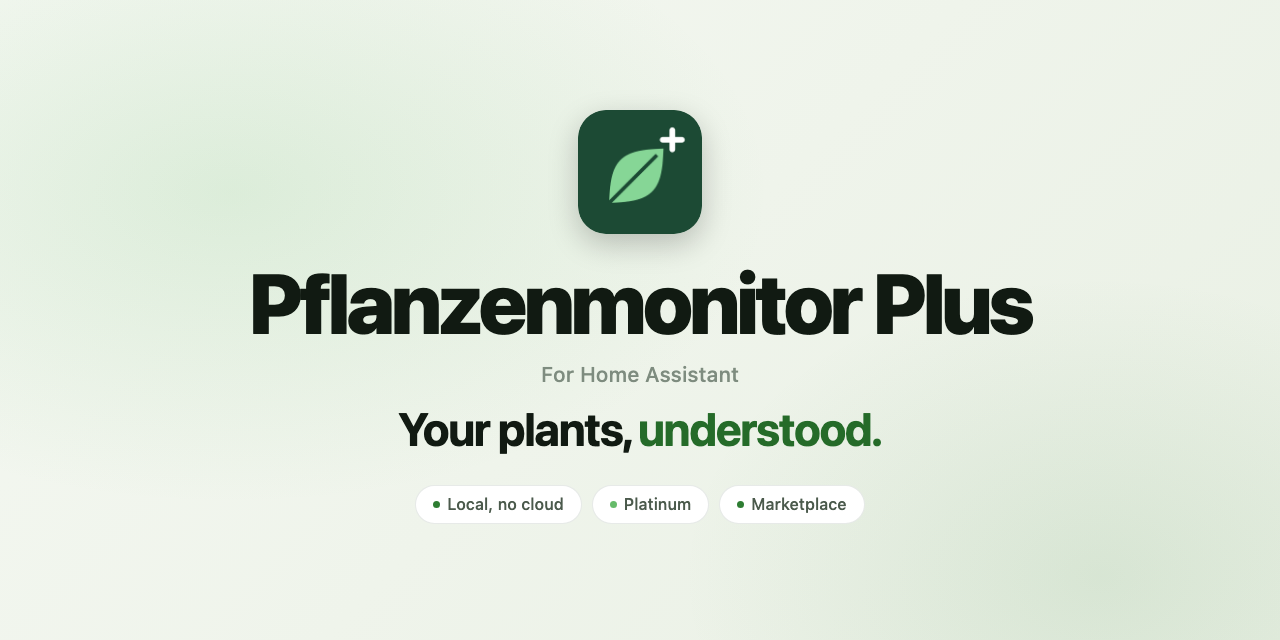
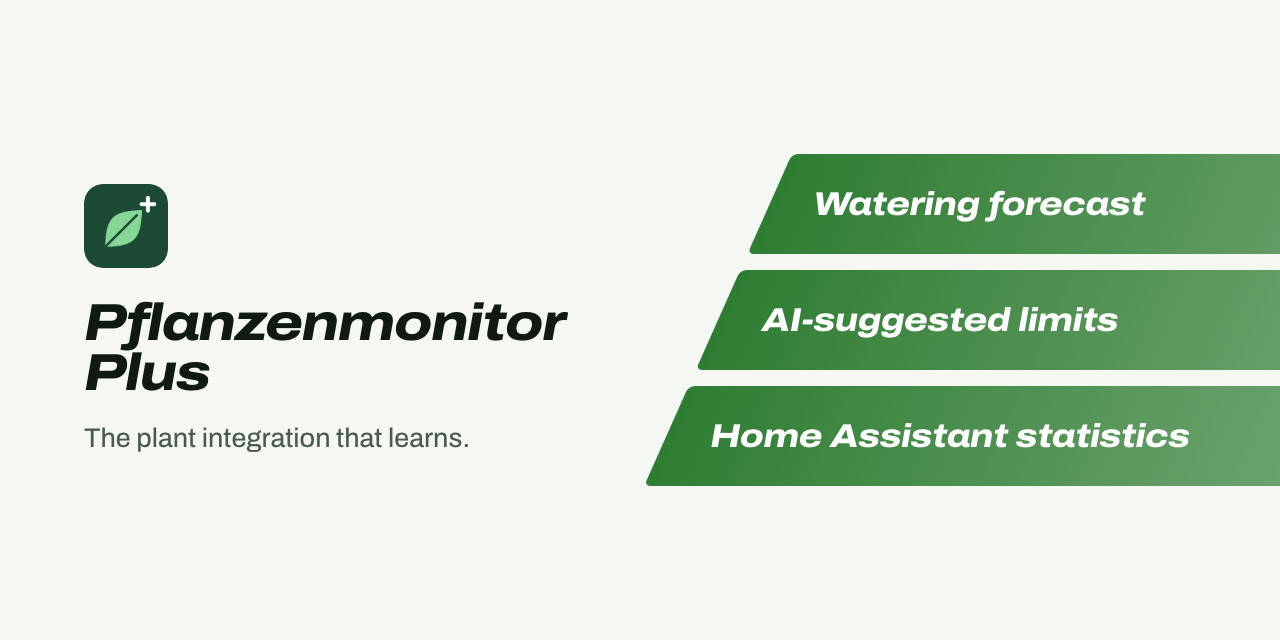
README and project page in the v2 design
Title banner with the lanes, Install and Set up as one Get started, shared
footer. The page loads theme v2 (Archivo from sh1ft-w.github.io), hero left
with the three key facts on the lanes.

Claude-Session: https://claude.ai/code/session_01TLmTtZLAvnS1BJ3w9tzxXq

diff --git a/docs/index.html b/docs/index.html
@@ -13,21 +13,18 @@
 <meta property="og:description" content="Status, limits and a learned watering forecast for every plant, with AI-suggested limits you approve. Local, no cloud.">
 <meta property="og:image" content="https://sh1ft-w.github.io/pflanzenmonitor-plus/images/readme-title-social.png">
 <link rel="icon" href="logo.png">
-<link rel="preconnect" href="https://fonts.googleapis.com">
-<link rel="preconnect" href="https://fonts.gstatic.com" crossorigin>
-<link href="https://fonts.googleapis.com/css2?family=Archivo:wght@600;700;800;900&family=Inter:wght@400;500;600&family=JetBrains+Mono:wght@400;500&display=swap" rel="stylesheet">
-<!-- Shared SH1FT-W design (tokens, glass navigation, light/dark, DE/EN, reveal) -->
-<link rel="stylesheet" href="https://sh1ft-w.github.io/theme/v1/theme.css">
-<script src="https://sh1ft-w.github.io/theme/v1/theme.js"></script>
+<!-- Shared SH1FT-W design, version 2 (tokens, Archivo, navigation, light/dark, DE/EN, the lanes) -->
+<link rel="stylesheet" href="https://sh1ft-w.github.io/theme/v2/theme.css">
+<script src="https://sh1ft-w.github.io/theme/v2/theme.js"></script>
 <style>
 /* Plant palette: leaf green as accent, fresh green as second colour, soft daylight by day, a dark greenhouse by night */
 :root {
   --accent: #2E7D32; --accent-ink: #256B29; --on-accent: #ffffff;
-  --sea: #2E7D32; --sea-tint: rgba(46,125,50,0.10); --sea-glow: rgba(46,125,50,0.30); --aqua: #66BB6A;
+  --sea: #2E7D32; --sea-tint: rgba(46,125,50,0.10); --aqua: #66BB6A;
   --soil: #8D6E63; --water: #2F80ED; --limit: #E0A100;
-  --font: "Inter", -apple-system, BlinkMacSystemFont, system-ui, sans-serif;
-  --display: "Archivo", "Inter", -apple-system, BlinkMacSystemFont, system-ui, sans-serif;
-  --mono: "JetBrains Mono", ui-monospace, "SF Mono", Menlo, monospace;
+  --font: "Archivo", -apple-system, BlinkMacSystemFont, system-ui, sans-serif;
+  --display: "Archivo", -apple-system, BlinkMacSystemFont, system-ui, sans-serif;
+  --mono: ui-monospace, "SF Mono", Menlo, monospace;
   --bg: #F5F8F2; --bg-2: #E9F0E4; --card: #FFFFFF; --card-2: #F2F6EF;
   --ink: #111A12; --ink-2: #4B5A4C; --ink-3: rgba(17,34,18,0.52);
   --line: rgba(20,50,25,0.11); --chip: rgba(20,60,25,0.06);
@@ -38,7 +35,7 @@
 }
 @media (prefers-color-scheme: dark) { :root:not([data-theme="light"]) {
   --accent: #6FCF7F; --accent-ink: #8EDB9A; --on-accent: #06180A;
-  --sea: #6FCF7F; --sea-tint: rgba(111,207,127,0.14); --sea-glow: rgba(111,207,127,0.28); --water: #6FA8FF;
+  --sea: #6FCF7F; --sea-tint: rgba(111,207,127,0.14); --water: #6FA8FF;
   --bg: #080D09; --bg-2: #0D150F; --card: #111A13; --card-2: #17231A;
   --ink: #ECF4ED; --ink-2: rgba(216,232,218,0.84); --ink-3: rgba(216,232,218,0.52);
   --line: rgba(236,244,237,0.1); --chip: rgba(236,244,237,0.07);
@@ -47,7 +44,7 @@
 } }
 :root[data-theme="dark"] {
   --accent: #6FCF7F; --accent-ink: #8EDB9A; --on-accent: #06180A;
-  --sea: #6FCF7F; --sea-tint: rgba(111,207,127,0.14); --sea-glow: rgba(111,207,127,0.28); --water: #6FA8FF;
+  --sea: #6FCF7F; --sea-tint: rgba(111,207,127,0.14); --water: #6FA8FF;
   --bg: #080D09; --bg-2: #0D150F; --card: #111A13; --card-2: #17231A;
   --ink: #ECF4ED; --ink-2: rgba(216,232,218,0.84); --ink-3: rgba(216,232,218,0.52);
   --line: rgba(236,244,237,0.1); --chip: rgba(236,244,237,0.07);
@@ -72,7 +69,7 @@ code, .k { font-family: var(--mono); font-variant-numeric: tabular-nums; }
 .btn {
   display: inline-flex; align-items: center; justify-content: center; gap: 8px; height: 48px; padding: 0 24px; border-radius: 999px;
   font-family: inherit; font-size: 15px; font-weight: 600; line-height: 1; background: var(--sea); color: var(--on-accent); border: 0; cursor: pointer;
-  box-shadow: 0 12px 28px -12px var(--sea-glow); transition: transform .2s ease, filter .2s ease;
+  transition: transform .2s ease, filter .2s ease;
 }
 .btn:hover { text-decoration: none; filter: brightness(1.1); transform: translateY(-1px); }
 .btn.ghost { background: var(--card); color: var(--ink); box-shadow: var(--shadow); }
@@ -96,9 +93,6 @@ section.tint { background: var(--bg-2); }
 
 /* Hero */
 .hero { padding: clamp(56px, 9vw, 112px) 0 clamp(64px, 8vw, 104px); text-align: center; overflow: hidden; }
-.hero .glow { position: absolute; inset: -20% -10% auto; height: 90%; pointer-events: none;
-  background: radial-gradient(40% 36% at 30% 30%, rgba(102,187,106,0.20), transparent 70%), radial-gradient(36% 34% at 72% 24%, rgba(46,125,50,0.16), transparent 70%);
-  filter: blur(50px); }
 .hero .wrap { position: relative; }
 .hero .lead { max-width: 660px; margin-left: auto; margin-right: auto; }
 .cta { display: flex; flex-wrap: wrap; gap: 12px; justify-content: center; margin-top: 34px; }
@@ -106,9 +100,6 @@ section.tint { background: var(--bg-2); }
 .pill { display: inline-flex; align-items: center; gap: 6px; padding: 5px 12px; border-radius: 999px; background: var(--card); box-shadow: var(--shadow); font-weight: 600; color: var(--ink-2); font-size: 13px; }
 .pill i { width: 7px; height: 7px; border-radius: 50%; background: var(--aqua); display: inline-block; }
 
-/* Bühne: das README-Titelbild */
-.stage { position: relative; margin: clamp(48px, 7vw, 84px) auto 0; max-width: 1100px; }
-.stage .photo { display: block; width: 100%; height: auto; aspect-ratio: 2 / 1; border-radius: var(--radius-lg); box-shadow: var(--shadow-lg); }
 
 /* Bento: Gerade neu */
 .bento { display: grid; grid-template-columns: repeat(12, 1fr); gap: 16px; }
@@ -237,6 +228,40 @@ footer .fine { flex-basis: 100%; line-height: 1.6; }
   .tbl td { border: 0; padding: 2px 0; }
   .tbl td:first-child { white-space: normal; }
 }
+
+/* ---- theme v2 ---- */
+:root { --lane-a: #2E7D32; --lane-b: #66BB6A; --radius: 20px; --radius-lg: 28px; --max: 1200px; }
+body { font-family: var(--font); }
+h1 { font-size: clamp(44px, 6vw, 84px); line-height: 1; font-weight: 800; font-stretch: 118%; font-style: italic; letter-spacing: -0.025em; }
+h2 { font-size: clamp(30px, 3.8vw, 48px); line-height: 1.08; font-weight: 750; font-stretch: 112%; letter-spacing: -0.02em; }
+h3 { font-stretch: 106%; }
+h1 em, h2 em { color: inherit !important; font-style: inherit; }
+.center { text-align: left; } .center .lead { margin-left: 0; margin-right: 0; }
+.head { max-width: 50em; }
+.eyebrow { text-transform: none; letter-spacing: 0; font-size: 16px; font-weight: 650; margin-bottom: 12px; }
+.eyebrow::before { display: none; }
+.cap { text-align: left; }
+.btn { border-radius: 12px; }
+.btn.ghost { background: var(--chip); box-shadow: none; }
+.pill { box-shadow: none; background: var(--chip); border-radius: 8px; }
+.b, .tile, .panel, .prof, .tbl, .faq details, .flow .lane { box-shadow: none; border: 1px solid var(--line); }
+.b .tag, .tg, .tbl thead th, .tbl .grp td { text-transform: none; letter-spacing: 0; font-size: 13px; }
+.b .tag, .tg { border-radius: 6px; }
+.tile .ico, .shield .ico { border-radius: 10px; }
+.hero { text-align: left; padding: clamp(48px, 7vw, 96px) 0 clamp(56px, 7vw, 96px); overflow: hidden; }
+.hero .wrap { display: grid; grid-template-columns: minmax(0, 1.15fr) minmax(0, 1fr); gap: clamp(24px, 4vw, 64px); align-items: center; }
+.hero .mark { width: 64px; height: 64px; border-radius: 15px; margin-bottom: 26px; }
+.hero .lead { margin-left: 0; max-width: 34em; }
+.hero .cta, .hero .meta { justify-content: flex-start; }
+.hero .s-lanes { margin: 0 calc(-1 * var(--gutter) - 14vw) 0 clamp(40px, 5vw, 72px); }
+.nav-links { font-size: 14px; } .nav-links a { white-space: nowrap; padding: 8px 9px; }
+.s-track b { color: #fff; font: italic 800 clamp(20px, 2.5vw, 34px)/1 var(--font); font-stretch: 116%; letter-spacing: -0.015em; white-space: nowrap; }
+@media (max-width: 900px) { .hero .wrap { grid-template-columns: 1fr; } .hero .s-lanes { margin: 8px calc(-1 * var(--gutter) - 8vw) 0 44px; } }
+/* phone: the long name, light/dark and DE/EN fill the bar; the hero button right below installs */
+@media (max-width: 1340px) { .nav-links a.opt { display: none; } }
+@media (max-width: 940px) { .nav-links { display: none; } .nav > .iconbtn { margin-left: auto; } .nav > .btn, .nav .btn { margin-left: 0; } }
+@media (max-width: 540px) { .nav .brand { font-size: 14px; gap: 6px; white-space: nowrap; } .nav { gap: 6px; } .nav > .btn.small { display: none; } .s-track b { font-size: 18px; } }
+@media (max-width: 760px) { .tbl td:first-child { white-space: normal; } }
 </style>
 </head>
 <body>
@@ -262,25 +287,24 @@ footer .fine { flex-basis: 100%; line-height: 1.6; }
 </div>
 
 <section class="hero" id="top">
-  <div class="glow" aria-hidden="true"></div>
   <div class="wrap">
-    <p class="eyebrow reveal"><span class="en">Plants in Home Assistant</span><span class="de">Pflanzen in Home Assistant</span></p>
-    <h1 class="reveal d1"><span class="en">Your plants,<br><em>understood.</em></span><span class="de">Deine Pflanzen,<br><em>verstanden.</em></span></h1>
-    <p class="lead reveal d2"><span class="en">Pflanzenmonitor Plus watches every plant against its limits, <strong>learns from the soil moisture when it was watered and when it needs water again</strong>, and lets an AI suggest limits for the species, approved by you. It does everything Plant Monitor does, and moving over takes a few steps per plant.</span><span class="de">Pflanzenmonitor Plus prüft jede Pflanze gegen ihre Grenzwerte, <strong>lernt aus der Bodenfeuchte, wann gegossen wurde und wann sie wieder Wasser braucht</strong>, und lässt eine KI Grenzwerte nach Pflanzenart vorschlagen, freigegeben von dir. Es kann alles, was der Plant Monitor kann, und der Umstieg sind wenige Schritte je Pflanze.</span></p>
-    <div class="cta reveal d3">
-      <a class="btn" href="#install"><span class="en">Install from the Marketplace</span><span class="de">Über den Marketplace installieren</span></a>
-      <a class="btn ghost" href="https://github.com/SH1FT-W/pflanzenmonitor-plus#readme"><span class="en">Read the README</span><span class="de">Zur Anleitung</span></a>
+    <div>
+      <img class="mark" src="logo.png" alt="" width="64" height="64">
+      <h1><span class="en">Your plants, understood.</span><span class="de">Deine Pflanzen, verstanden.</span></h1>
+      <p class="lead reveal d2"><span class="en">Pflanzenmonitor Plus watches every plant against its limits, <strong>learns from the soil moisture when it was watered and when it needs water again</strong>, and lets an AI suggest limits for the species, approved by you. It does everything Plant Monitor does, and moving over takes a few steps per plant.</span><span class="de">Pflanzenmonitor Plus prüft jede Pflanze gegen ihre Grenzwerte, <strong>lernt aus der Bodenfeuchte, wann gegossen wurde und wann sie wieder Wasser braucht</strong>, und lässt eine KI Grenzwerte nach Pflanzenart vorschlagen, freigegeben von dir. Es kann alles, was der Plant Monitor kann, und der Umstieg sind wenige Schritte je Pflanze.</span></p>
+      <div class="cta reveal d3">
+        <a class="btn" href="#install"><span class="en">Install from the Marketplace</span><span class="de">Über den Marketplace installieren</span></a>
+        <a class="btn ghost" href="https://github.com/SH1FT-W/pflanzenmonitor-plus#readme"><span class="en">Read the README</span><span class="de">Zur Anleitung</span></a>
+      </div>
+      <p class="meta reveal d3">
+        <span class="pill"><i></i><span id="hl-version">Version 26.11.3</span></span>
+        <span class="en">Home Assistant 2026.9 or newer &middot; English and German &middot; Apache 2.0</span><span class="de">Home Assistant 2026.9 oder neuer &middot; Deutsch und Englisch &middot; Apache 2.0</span>
+      </p>
     </div>
-    <p class="meta reveal d3">
-      <span class="pill"><i></i><span id="hl-version">Version 26.11.3</span></span>
-      <span class="en">Home Assistant 2026.9 or newer &middot; English and German &middot; Apache 2.0</span><span class="de">Home Assistant 2026.9 oder neuer &middot; Deutsch und Englisch &middot; Apache 2.0</span>
-    </p>
-
-    <div class="stage reveal d3">
-      <picture>
-        <source media="(prefers-color-scheme: dark)" srcset="images/readme-title-dark.webp">
-        <img class="photo" src="images/readme-title-light.webp" width="2560" height="1280" alt="Pflanzenmonitor Plus: Your plants, understood.">
-      </picture>
+    <div class="s-lanes" aria-hidden="true">
+      <div class="s-lane"><div class="s-track"><b><span class="en">Watering forecast</span><span class="de">Gieß-Vorhersage</span></b></div></div>
+      <div class="s-lane"><div class="s-track"><b><span class="en">AI-suggested limits</span><span class="de">Grenzwerte von der KI</span></b></div></div>
+      <div class="s-lane"><div class="s-track"><b><span class="en">Home Assistant statistics</span><span class="de">Home-Assistant-Statistik</span></b></div></div>
     </div>
   </div>
 </section>

diff --git a/README.md b/README.md
@@ -2,14 +2,14 @@
 
 <picture>
   <source media="(prefers-color-scheme: dark)" srcset="docs/images/readme-title-dark.webp" />
-  <img src="docs/images/readme-title-light.webp" alt="Pflanzenmonitor Plus: Your plants, understood." />
+  <img src="docs/images/readme-title-light.webp" alt="Pflanzenmonitor Plus: the plant integration that learns. Watering forecast. AI-suggested limits. Home Assistant statistics." />
 </picture>
 
 [![Version](https://img.shields.io/badge/dynamic/json?url=https%3A%2F%2Fraw.githubusercontent.com%2FSH1FT-W%2Fpflanzenmonitor-plus%2Fmain%2Fcustom_components%2Fpflanzenmonitor_plus%2Fmanifest.json&query=%24.version&label=version&style=flat-square&color=2E7D32&labelColor=111111)](https://github.com/SH1FT-W/pflanzenmonitor-plus/releases/latest)
 [![Home Assistant](https://img.shields.io/badge/Home%20Assistant-2026.9%2B-2E7D32?style=flat-square&labelColor=111111&logo=homeassistant&logoColor=white)](https://www.home-assistant.io)
 [![Marketplace](https://img.shields.io/badge/Marketplace-default-2E7D32?style=flat-square&labelColor=111111)](https://hacs.xyz)
 
-<a href="https://sh1ft-w.github.io/pflanzenmonitor-plus"><b>Website</b></a>&emsp;<a href="#installation">Install</a>&emsp;<a href="#set-up">Set up</a>&emsp;<a href="#moving-from-plant-monitor">Moving from Plant Monitor</a>&emsp;<a href="#entities">Entities</a>&emsp;<a href="CHANGELOG.md">Changelog</a>&emsp;<a href="README.de.md">Deutsch</a>
+<a href="https://sh1ft-w.github.io/pflanzenmonitor-plus"><b>Website</b></a>&emsp;<a href="#get-started">Get started</a>&emsp;<a href="#moving-from-plant-monitor">Moving from Plant Monitor</a>&emsp;<a href="#entities">Entities</a>&emsp;<a href="CHANGELOG.md">Changelog</a>&emsp;<a href="README.de.md">Deutsch</a>
 
 </div>
 
@@ -19,7 +19,7 @@ Pflanzenmonitor Plus watches every plant in Home Assistant against its limits, l
 
 It does what [Plant Monitor](https://github.com/Olen/homeassistant-plant) does, but it is a separate integration and takes nothing over from it: moving is [a few steps per plant](#moving-from-plant-monitor). The status entity is `sensor.<name>` instead of `plant.<name>`, and the Flower Card is not supported.
 
-## What you need for what
+## What you get
 
 | Feature | Needs |
 |:--|:--|
@@ -34,12 +34,19 @@ It does what [Plant Monitor](https://github.com/Olen/homeassistant-plant) does, 
 
 **New in 26.11:** watering tasks on a to-do list and an optional care calendar. Plus no longer moves plants from Plant Monitor by itself; there is a guide instead. Every change is in the [changelog](CHANGELOG.md).
 
-<a id="installation"></a>
-## Install
+<a id="get-started"></a><a id="installation"></a><a id="install"></a><a id="set-up"></a>
+## Get started
 
 [![Open in the Marketplace](https://my.home-assistant.io/badges/hacs_repository.svg)](https://my.home-assistant.io/redirect/hacs_repository/?owner=SH1FT-W&repository=pflanzenmonitor-plus&category=integration)
 
-Search for **Pflanzenmonitor Plus** under **Settings > Marketplace** (called HACS before Home Assistant 2026.11), download it and restart Home Assistant.
+You need Home Assistant 2026.9 or newer with the recorder (the default).
+
+1. **Install it.** Search for **Pflanzenmonitor Plus** under **Settings > Marketplace** (called HACS before Home Assistant 2026.11), download it and restart Home Assistant.
+2. **Add the integration.** **Settings > Devices & services > Add integration > Pflanzenmonitor Plus**. There is exactly one entry; the plants are listed under it.
+3. **Choose the options** (all optional, later under **Configure**): the AI for limit suggestions, a weather entity, a to-do list for watering, the care calendar, a rain sensor. Use a rain sensor that measures intensity in mm/h; amount sensors ("rain today") stay above 0 until midnight.
+4. **Add a plant.** **Pflanzenmonitor Plus > Add plant** asks in four steps: name, species (helps the AI), room and picture; the sensors and whether it is outdoors; which readings count as a problem and the wait after watering; with the care calendar on, the care plan. **Three dots > Reconfigure** changes the same later.
+
+Plus only creates entities for sensors that are set. A removed sensor takes its entities along, its limits stay stored. When you rename a sensor, Plus follows.
 
 <details>
 <summary>Install by hand</summary>
@@ -48,17 +55,6 @@ Search for **Pflanzenmonitor Plus** under **Settings > Marketplace** (called HAC
 2. Copy `custom_components/pflanzenmonitor_plus` into `/config/custom_components/` and restart Home Assistant.
 
 </details>
-
-<a id="set-up"></a>
-## Set up
-
-You need Home Assistant 2026.9 or newer with the recorder (the default).
-
-1. **Add the integration.** **Settings > Devices & services > Add integration > Pflanzenmonitor Plus**. There is exactly one entry; the plants are listed under it.
-2. **Choose the options** (all optional, later under **Configure**): the AI for limit suggestions, a weather entity, a to-do list for watering, the care calendar, a rain sensor. Use a rain sensor that measures intensity in mm/h; amount sensors ("rain today") stay above 0 until midnight.
-3. **Add a plant.** **Pflanzenmonitor Plus > Add plant** asks in four steps: name, species (helps the AI), room and picture; the sensors and whether it is outdoors; which readings count as a problem and the wait after watering; with the care calendar on, the care plan. **Three dots > Reconfigure** changes the same later.
-
-Plus only creates entities for sensors that are set. A removed sensor takes its entities along, its limits stay stored. When you rename a sensor, Plus follows.
 
 <a id="moving-from-plant-monitor"></a>
 ## Moving from Plant Monitor
@@ -100,6 +96,7 @@ All on the plant's device. IDs depend on language and room (for example `sensor.
 
 </details>
 
+<a id="examples"></a>
 ## Examples
 
 A notification when a plant has needed attention for 30 minutes:
@@ -232,3 +229,11 @@ Test requirements: `pip install -r requirements_test.txt`. GitHub Actions runs t
 [Apache License 2.0](LICENSE), Copyright 2026 SH1FT-W. See [`NOTICE`](NOTICE) about Plant Monitor.
 
 <sub>Pflanzenmonitor Plus is an independent project. It is compatible with Plant Monitor (Olen/homeassistant-plant) but contains none of its code and is not affiliated with it.</sub>
+
+<br/>
+
+<div align="center">
+<a href="https://sh1ft-w.github.io"><img src="https://sh1ft-w.github.io/readme/footer.png" width="640" alt="All SH1FT-W projects"></a>
+<br/>
+<sub>More open source for Home Assistant and the Mac at <a href="https://sh1ft-w.github.io">sh1ft-w.github.io</a></sub>
+</div>

diff --git a/README.de.md b/README.de.md
@@ -8,7 +8,7 @@
 [![Home Assistant](https://img.shields.io/badge/Home%20Assistant-2026.9%2B-2E7D32?style=flat-square&labelColor=111111&logo=homeassistant&logoColor=white)](https://www.home-assistant.io)
 [![Marketplace](https://img.shields.io/badge/Marketplace-default-2E7D32?style=flat-square&labelColor=111111)](https://hacs.xyz)
 
-<a href="https://sh1ft-w.github.io/pflanzenmonitor-plus"><b>Website</b></a>&emsp;<a href="#installation">Installation</a>&emsp;<a href="#einrichtung">Einrichtung</a>&emsp;<a href="#umzug-aus-dem-plant-monitor">Umzug aus dem Plant Monitor</a>&emsp;<a href="#entitaeten">Entitäten</a>&emsp;<a href="CHANGELOG.md">Changelog (englisch)</a>&emsp;<a href="README.md">English</a>
+<a href="https://sh1ft-w.github.io/pflanzenmonitor-plus"><b>Website</b></a>&emsp;<a href="#loslegen">Loslegen</a>&emsp;<a href="#umzug-aus-dem-plant-monitor">Umzug aus dem Plant Monitor</a>&emsp;<a href="#entitaeten">Entitäten</a>&emsp;<a href="CHANGELOG.md">Changelog (englisch)</a>&emsp;<a href="README.md">English</a>
 
 </div>
 
@@ -18,7 +18,7 @@ Pflanzenmonitor Plus überwacht jede Pflanze in Home Assistant an ihren Grenzwer
 
 Plus kann, was der [Plant Monitor](https://github.com/Olen/homeassistant-plant) kann, ist aber eine eigene Integration und übernimmt nichts daraus: Der Umstieg sind [wenige Schritte je Pflanze](#umzug-aus-dem-plant-monitor). Die Zustands-Entität heißt `sensor.<name>` statt `plant.<name>`, die Flower Card wird nicht unterstützt.
 
-## Was du wofür brauchst
+## Was du bekommst
 
 | Funktion | Braucht |
 |:--|:--|
@@ -33,12 +33,19 @@ Plus kann, was der [Plant Monitor](https://github.com/Olen/homeassistant-plant) 
 
 **Neu in 26.11:** Gieß-Aufgaben auf einer To-do-Liste und ein optionaler Pflegekalender. Plus zieht Pflanzen nicht mehr selbst aus dem Plant Monitor um; dafür gibt es eine Anleitung. Alle Änderungen stehen im [Changelog](CHANGELOG.md) (englisch).
 
-<a id="installation"></a>
-## Installation
+<a id="loslegen"></a><a id="installation"></a><a id="einrichtung"></a>
+## Loslegen
 
 [![Im Marketplace öffnen](https://my.home-assistant.io/badges/hacs_repository.svg)](https://my.home-assistant.io/redirect/hacs_repository/?owner=SH1FT-W&repository=pflanzenmonitor-plus&category=integration)
 
-Unter **Einstellungen > Marketplace** (vor Home Assistant 2026.11 heißt er HACS) nach **Pflanzenmonitor Plus** suchen, herunterladen und Home Assistant neu starten.
+Du brauchst Home Assistant 2026.9 oder neuer mit Recorder (Standard).
+
+1. **Installieren.** Unter **Einstellungen > Marketplace** (vor Home Assistant 2026.11 heißt er HACS) nach **Pflanzenmonitor Plus** suchen, herunterladen und Home Assistant neu starten.
+2. **Integration hinzufügen.** **Einstellungen > Geräte & Dienste > Integration hinzufügen > Pflanzenmonitor Plus**. Es gibt genau einen Eintrag; die Pflanzen hängen darunter.
+3. **Optionen wählen** (alle optional, später unter **Konfigurieren**): die KI für Grenzwert-Vorschläge, eine Wetter-Entität, eine To-do-Liste fürs Gießen, den Pflegekalender, einen Regensensor. Der Regensensor muss die Intensität in mm/h messen; Mengen-Sensoren („Regen heute“) bleiben bis Mitternacht über 0.
+4. **Pflanze hinzufügen.** **Pflanzenmonitor Plus > Pflanze hinzufügen** fragt in vier Schritten: Name, Art (hilft der KI), Raum und Bild; die Sensoren und ob sie draußen steht; welche Messwerte als Problem zählen und die Wartezeit nach dem Gießen; mit Pflegekalender den Pflegeplan. **Drei-Punkte-Menü > Neu konfigurieren** ändert dasselbe später.
+
+Plus legt nur Entitäten zu vorhandenen Sensoren an. Ein abgewählter Sensor nimmt seine Entitäten mit, seine Grenzwerte bleiben gespeichert. Benennst du einen Sensor um, zieht Plus das nach.
 
 <details>
 <summary>Von Hand installieren</summary>
@@ -47,17 +54,6 @@ Unter **Einstellungen > Marketplace** (vor Home Assistant 2026.11 heißt er HACS
 2. Den Ordner `custom_components/pflanzenmonitor_plus` nach `/config/custom_components/` kopieren und Home Assistant neu starten.
 
 </details>
-
-<a id="einrichtung"></a>
-## Einrichtung
-
-Du brauchst Home Assistant 2026.9 oder neuer mit Recorder (Standard).
-
-1. **Integration hinzufügen.** **Einstellungen > Geräte & Dienste > Integration hinzufügen > Pflanzenmonitor Plus**. Es gibt genau einen Eintrag; die Pflanzen hängen darunter.
-2. **Optionen wählen** (alle optional, später unter **Konfigurieren**): die KI für Grenzwert-Vorschläge, eine Wetter-Entität, eine To-do-Liste fürs Gießen, den Pflegekalender, einen Regensensor. Der Regensensor muss die Intensität in mm/h messen; Mengen-Sensoren („Regen heute“) bleiben bis Mitternacht über 0.
-3. **Pflanze hinzufügen.** **Pflanzenmonitor Plus > Pflanze hinzufügen** fragt in vier Schritten: Name, Art (hilft der KI), Raum und Bild; die Sensoren und ob sie draußen steht; welche Messwerte als Problem zählen und die Wartezeit nach dem Gießen; mit Pflegekalender den Pflegeplan. **Drei-Punkte-Menü > Neu konfigurieren** ändert dasselbe später.
-
-Plus legt nur Entitäten zu vorhandenen Sensoren an. Ein abgewählter Sensor nimmt seine Entitäten mit, seine Grenzwerte bleiben gespeichert. Benennst du einen Sensor um, zieht Plus das nach.
 
 <a id="umzug-aus-dem-plant-monitor"></a>
 ## Umzug aus dem Plant Monitor
@@ -99,6 +95,7 @@ Alle auf dem Gerät der Pflanze. Die IDs hängen von Sprache und Raum ab (zum Be
 
 </details>
 
+<a id="beispiele"></a>
 ## Beispiele
 
 Eine Benachrichtigung, wenn eine Pflanze seit 30 Minuten Aufmerksamkeit braucht:
@@ -231,3 +228,11 @@ Testpakete: `pip install -r requirements_test.txt`. GitHub Actions prüft dassel
 [Apache License 2.0](LICENSE), Copyright 2026 SH1FT-W. Zum Plant Monitor siehe [`NOTICE`](NOTICE).
 
 <sub>Pflanzenmonitor Plus ist ein eigenständiges Projekt. Es ist mit dem Plant Monitor (Olen/homeassistant-plant) kompatibel, enthält aber keinen Code daraus und gehört nicht dazu.</sub>
+
+<br/>
+
+<div align="center">
+<a href="https://sh1ft-w.github.io"><img src="https://sh1ft-w.github.io/readme/footer.png" width="640" alt="Alle SH1FT-W-Projekte"></a>
+<br/>
+<sub>Mehr Open Source für Home Assistant und den Mac auf <a href="https://sh1ft-w.github.io">sh1ft-w.github.io</a></sub>
+</div>
